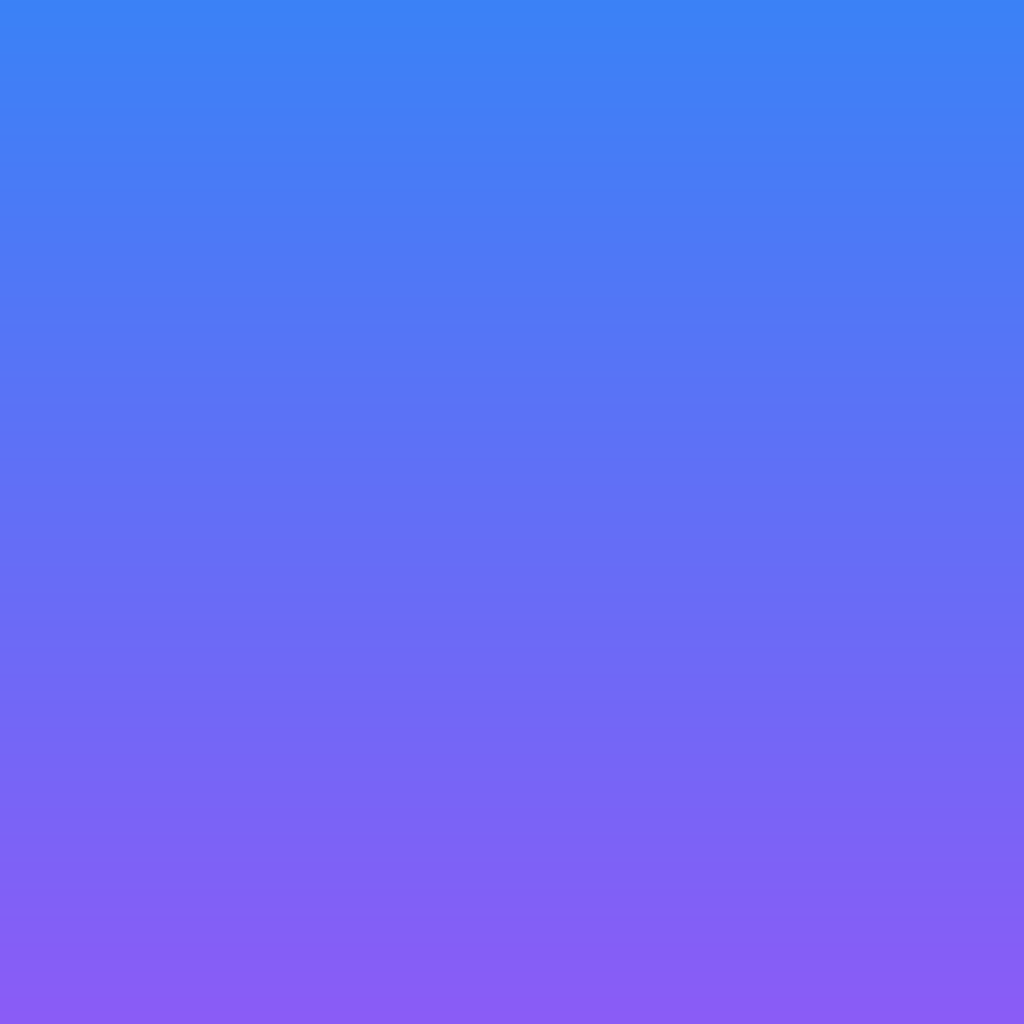
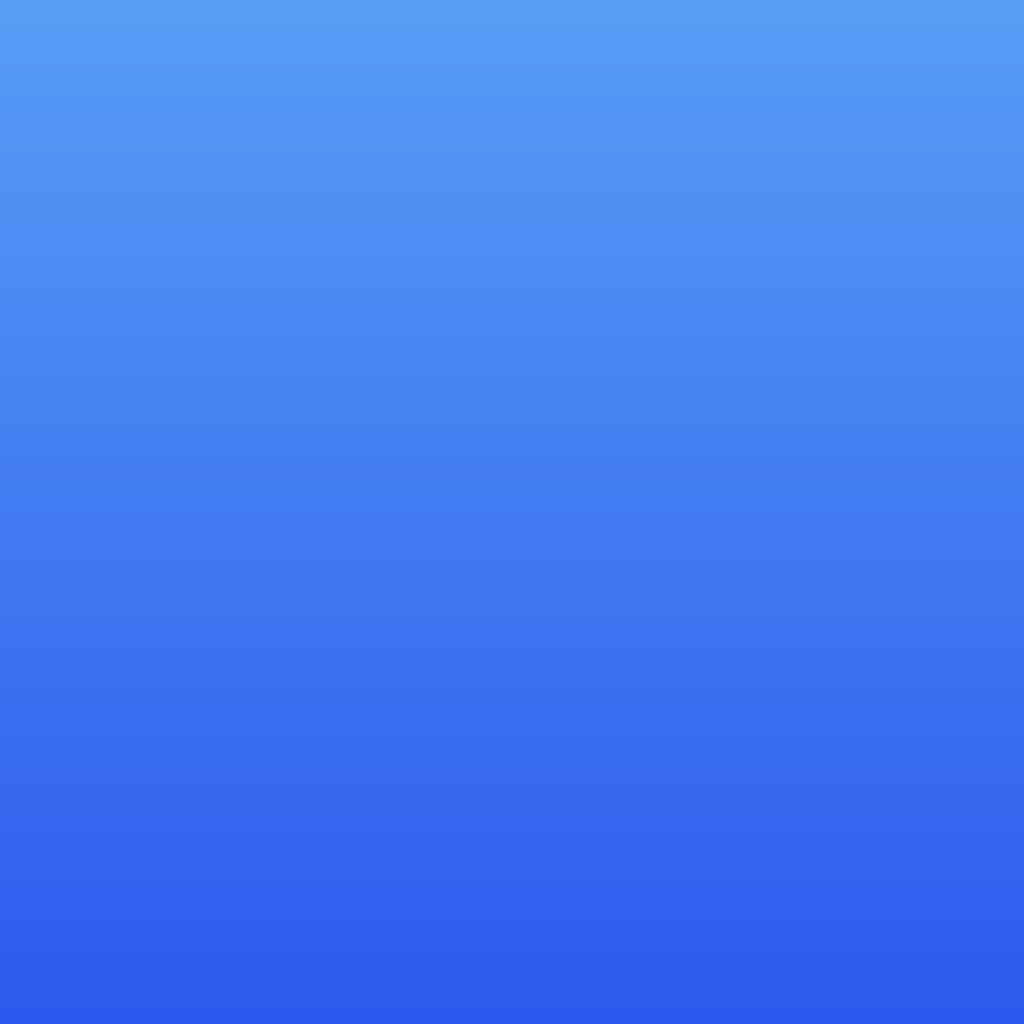
v1.0.2: 换图标双通道+应用图标重绘 ①上传自定义图标：图库选图→拷贝沙箱→持久化→应用内展示(WeiboPura封面更换同构,CustomIconService)；桌面图标仍走AGC动态图标(平台限制,任意上传图无法直接设为桌面图标) ②应用图标重绘：收藏app同款华为蓝渐变背景(上浅下深#589EF6→#2D5AEE)+白色网络地球前景,分层资源1024px前景/背景/合成图/startIcon同步更新

diff --git a/README.md b/README.md
@@ -4,7 +4,7 @@ HarmonyOS 网页套壳应用：一个可以"假装"成任意网站 App 的壳子
 
 - 包名：`com.hmos.pwa`
 - 应用名：假装PWA
-- 当前版本：v1.0.1 (100002)
+- 当前版本：v1.0.2 (100003)
 - 兼容版本：compatibleSdkVersion `6.0.0(20)`
 
 ## 功能
@@ -22,7 +22,9 @@ HarmonyOS 网页套壳应用：一个可以"假装"成任意网站 App 的壳子
 - **强制深色模式**：开关打开时网页深色跟随系统深浅色；
 - **下拉灵敏度**、**底栏抬高**（0-30vp）；
 - **清除缓存**（7 天未使用启动时也自动清）、**返回首页**、下拉刷新；
-- **更换图标**：查询华为图标管理服务的动态图标列表，点选即切换应用桌面图标，支持恢复默认（fake_pwa 特性保留）。
+- **更换图标（双通道）**：
+  - **上传自定义图标**：图库选图 → 拷贝沙箱 → 持久化 → 应用内展示（WeiboPura 封面更换同构；鸿蒙平台限制：任意上传图片无法直接设为桌面图标，仅应用内生效）；
+  - **AGC 动态图标**：查询华为图标管理服务的动态图标列表，点选即切换桌面图标，支持恢复默认（需 AGC 创建过审，仅真机）。
 
 ### 壳能力（soutu_ohos 1:1）
 - 沉浸式全屏 + 状态栏/小白条避让，系统栏背景取页面采样色（DOM 探针经 console 上报）；
@@ -65,6 +67,7 @@ entry/src/main/ets/
   services/ImageResourceSniffer.ets       页面图片资源嗅探缓存（soutu 同构）
   services/WebImageSaver.ets              取图/图库直存/剪贴板/分享（soutu 同构）
   services/DynamicAppIconService.ets      AGC 动态图标查询/切换/恢复（aira 同构）
+  services/CustomIconService.ets          自定义图标上传：图库选图→沙箱持久化→file:// 展示（WeiboPura 同构）
   component/DownloadConfirmDialog.ets     下载确认弹窗（soutu 同构）
   delegate/IWebDownloadFile.ets           下载委托抽象（soutu 同构）
   delegate/WebDownloadFileImpl.ets        下载委托实现（soutu 同构）
@@ -75,5 +78,6 @@ entry/src/main/ets/
 
 ## 版本历史
 
+- **v1.0.2 (100003)**：更换图标支持上传自定义图标（图库选图→沙箱持久化→应用内展示，WeiboPura 封面更换同构）+ AGC 动态图标双通道；应用图标重绘：收藏 app 同款华为蓝渐变背景 + 白色网络地球（分层资源 1024px，前景/背景/startIcon 同步更新）。
 - **v1.0.1 (100002)**：壳能力对齐 soutu_ohos 1:1（下载/取图/长按菜单/沉浸取色/UA/全屏开关等全量移植）；首页改为纯空白底（浅色白/深色黑），移除桌面壁纸读取；设置面板全量重做。
 - **v1.0.0 (100001)**：首版。分层壳 + 壁纸尽力读取 + 简化设置面板 + AGC 换图标。
